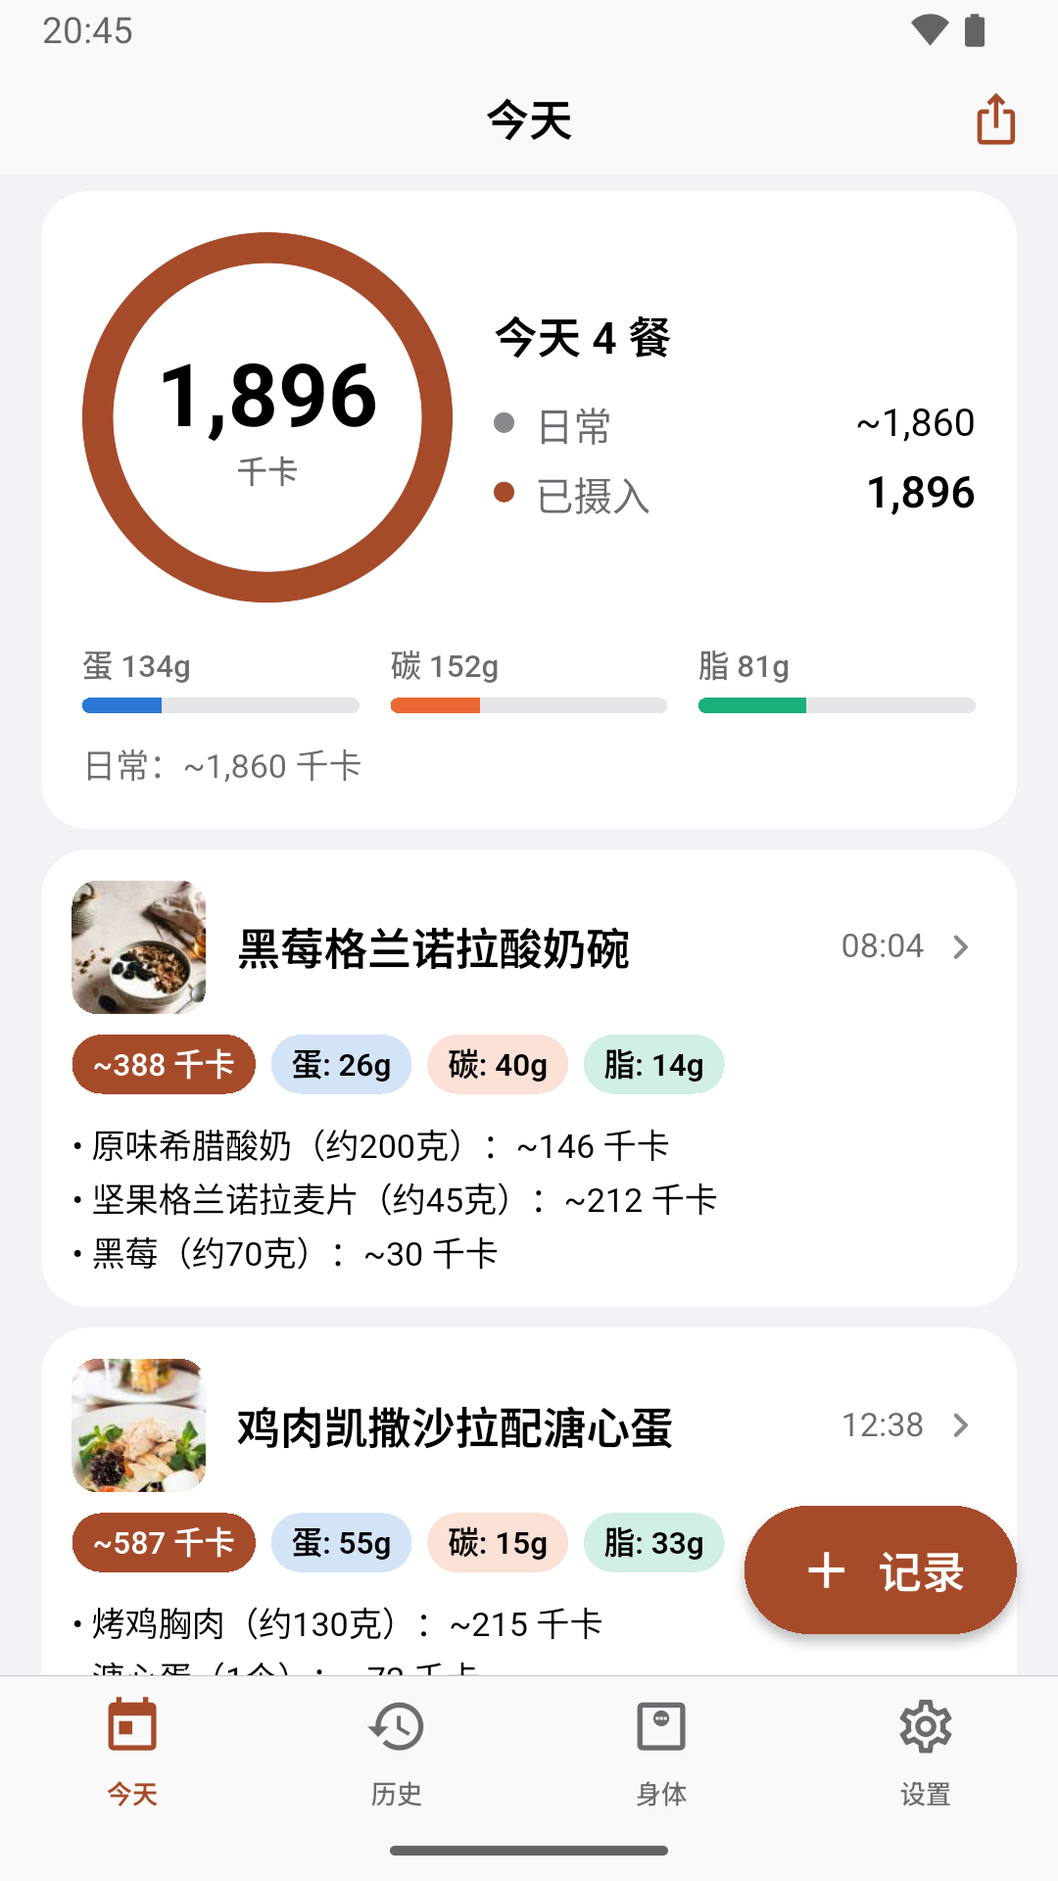
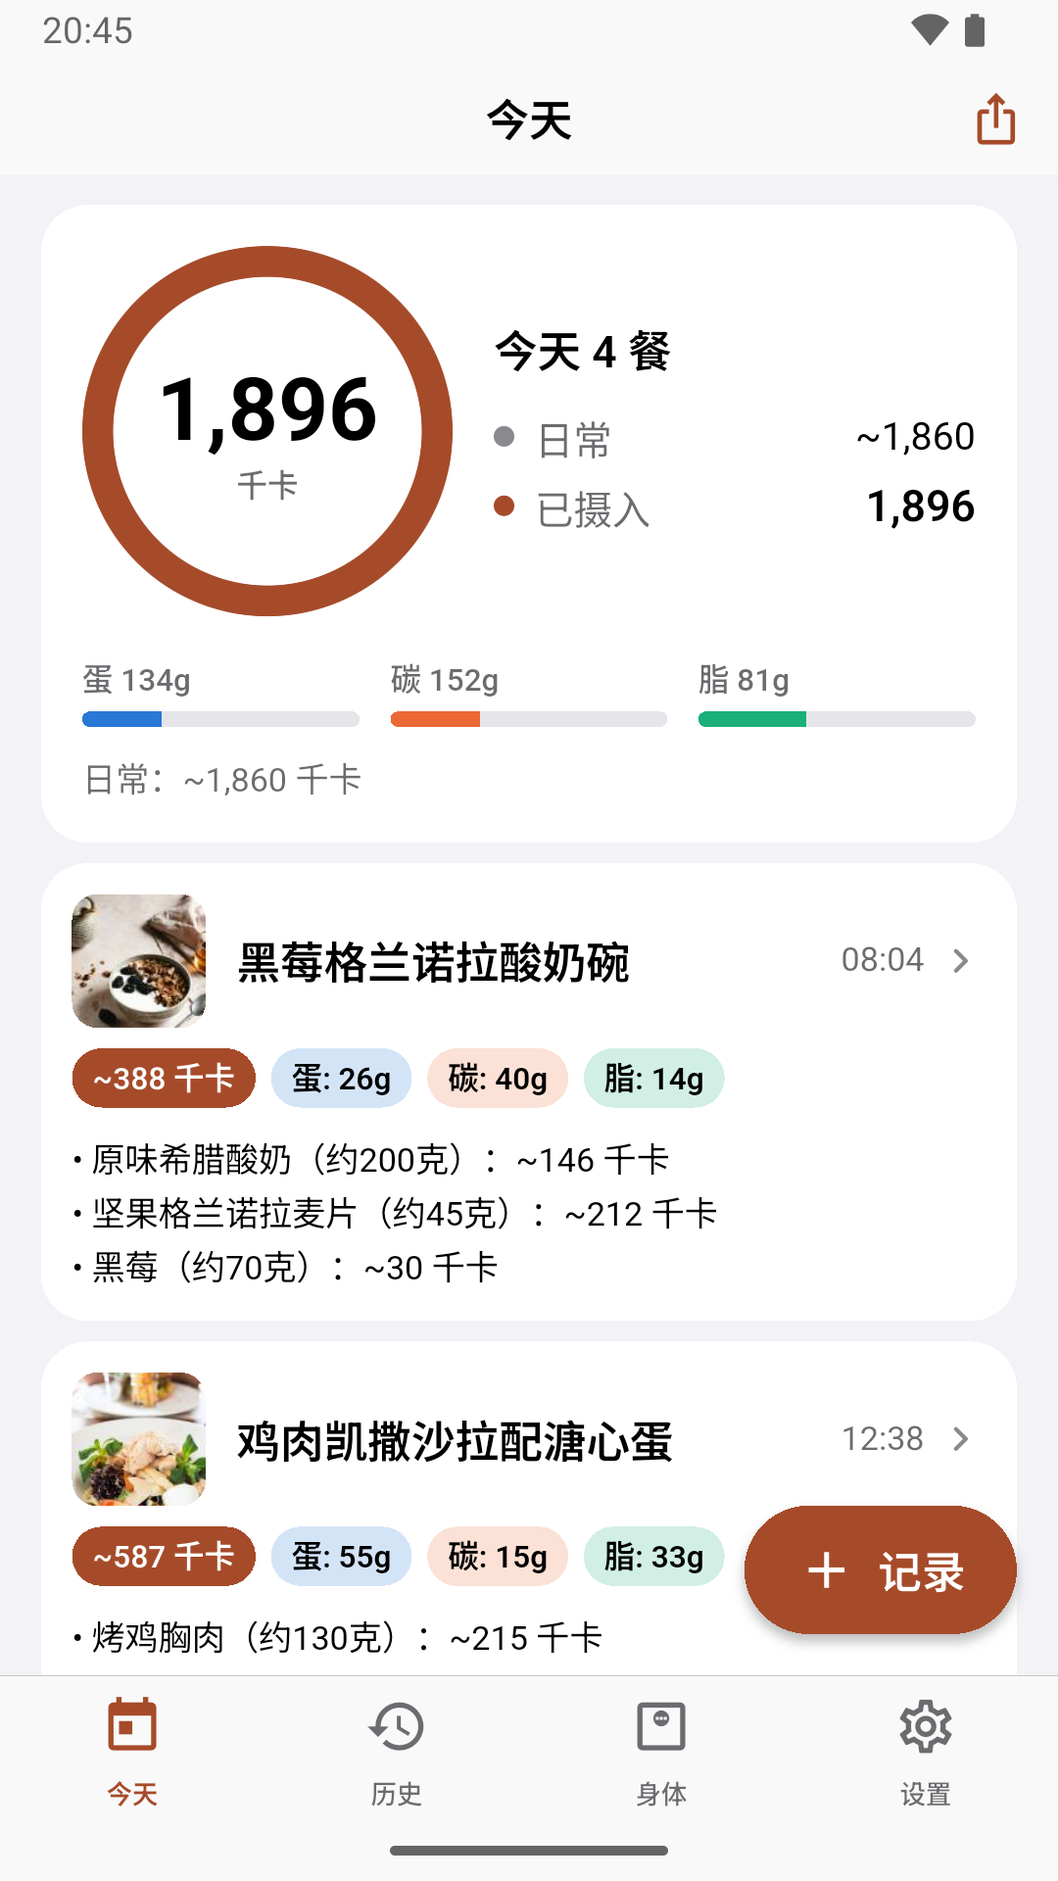
Play screenshots: no zh-CN API Key page, no cut lines, a pinned clock
Review of #76:

- zh-CN 06 is gone. In Chinese the API Key page notes on eight of its
  nine provider rows whether the provider needs a VPN or connects
  directly in China, and its footer sends mainland users to four
  providers; Play is not offered there (RELEASING § 7), and the listing
  names no VPN. Its key field was not in view either. zh-CN keeps 6
  shots (Play wants 4). The script takes 06 in en-US only and deletes a
  stale zh-CN copy; SHOTS.md and the script's closing reminder name VPN
  and mainland-China notes as never in a shot, and RELEASING § 6.5 says
  7 shots in en-US, 6 in zh-CN.
- zh-CN 01 and 07 scroll Today 182 px, not 196: the lunch card's second
  line no longer shows its top 13 px above the tab bar. 182 rather than
  the 181 px collapse distance, because the bar shows its title only
  past it (SliverAppBar: shrinkOffset > maxExtent - minExtent). en-US
  stays at 196, where 182 would cut its egg line.
- 04 History is framed as Today is (196 px): the title collapses into
  the bar and six whole days show in both languages; the fifth row was
  cut by the tab bar.
- The script sets the emulator's clock to Friday 2026-11-20 20:30 with
  automatic time off before each language's install, so every
  recapture gets the committed dates and numbers (typical day ~1,860);
  the demo history's weekend draws made them depend on the weekday.
  demo-file defaults to the same date.

release_decisions_test pins the shots: 4 to 8 per language, 1080x1920
[…]

diff --git a/app/test/release_decisions_test.dart b/app/test/release_decisions_test.dart
@@ -1072,6 +1072,31 @@ void main() {
       expect(shots, contains('24-bit PNG with no alpha'));
     });
 
+    // The shots themselves (scripts/play_screenshots.py). zh-CN has no 06:
+    // the Chinese API Key page says which providers need a VPN in mainland
+    // China, where Play is not offered, and the listing names no VPN (PR
+    // #76 review).
+    test('the screenshots: 4 to 8 per language, 1080 x 1920 24-bit PNGs, '
+        'no Chinese API Key page', () {
+      final dir = '${_appRoot().path}/android/store/screenshots';
+      for (final lang in ['en-US', 'zh-CN']) {
+        final pngs = Directory('$dir/$lang')
+            .listSync()
+            .whereType<File>()
+            .where((f) => f.path.endsWith('.png'))
+            .toList();
+        expect(pngs.length, inInclusiveRange(4, 8), reason: lang);
+        for (final png in pngs) {
+          expect(_pngHeader(png), (1080, 1920, 8, 2), reason: png.path);
+        }
+      }
+      expect(File('$dir/en-US/06_ai_provider.png').existsSync(), isTrue);
+      expect(File('$dir/zh-CN/06_ai_provider.png').existsSync(), isFalse);
+      final shots = _read('android/store/screenshots/SHOTS.md')
+          .replaceAll(RegExp(r'\s+'), ' ');
+      expect(shots, contains('VPN or mainland-China notes'));
+    });
+
     // Android 13+ themed icons need a monochrome layer (lint
     // MonochromeLauncherIcon). flutter_launcher_icons writes it from
     // pubspec.yaml, from the layers scripts/play_graphics.py --launcher

diff --git a/scripts/play_screenshots.py b/scripts/play_screenshots.py
@@ -6,7 +6,7 @@ emulator, from the release build of the Play variant:
 
     cd app && flutter build apk --release --dart-define=CHOPSTATS_CHANNEL=play && cd ..
     python3 scripts/play_screenshots.py avd       # create + boot the AVD
-    python3 scripts/play_screenshots.py shots     # en-US and zh-CN, 01-07
+    python3 scripts/play_screenshots.py shots     # en-US 01-07, zh-CN the same but 06
     python3 scripts/play_screenshots.py stop      # stop the emulator (the AVD stays)
 
     python3 scripts/play_screenshots.py demo-file en-US --out demo.json   # the import file only
@@ -22,14 +22,16 @@ boots it headless on port 5562 (adb serial emulator-5562).
 animations off, gesture navigation, light mode, default font and display
 size, system language = the shot's language (adb root, persist.sys.locale
 and a reboot; the image is userdebug), a clean status bar (SystemUI demo
-mode: 20:45, full Wi-Fi and battery, no notification icons), notifications
-denied for the app so nothing pops up over it. Then a FRESH install of the
-APK, and the demo import file pushed to the emulator's Download folder and
+mode: 20:45, full Wi-Fi and battery, no notification icons), and the
+clock set to Friday 2026-11-20, 20:30 with automatic time off (DEMO_NOW),
+so every recapture shows the same days and numbers. Then a FRESH install
+of the APK, notifications denied for it so nothing pops up over it, and
+the demo import file pushed to the emulator's Download folder and
 imported the way a user would: Settings > Import Data... > Choose File... >
 Android's file picker. Then the shots, by tapping through the app with
 uiautomator, captured with `adb exec-out screencap -p`, flattened to RGB
 and checked with `scripts/play_graphics.py --check-shots`. Shot 07
-switches the system to dark mode and back.
+switches the system to dark mode and back. zh-CN has no 06 (see SHOTS).
 
 The demo data (`demo-file`) is a full export in the app's own format
 (MealsDao.exportJson / BackupFileWriter.writeFull, kind "full"): 30 days of
@@ -39,8 +41,8 @@ photos in docs/readme/photos/ (Unsplash License, docs/readme/CREDITS.md),
 the other days as described meals, and a weight and girth trend. Every
 item's numbers are consistent with its macros (4/4/9 kcal per gram) and
 every total is the sum of its items. No key, no server address, no real
-meal. Dates are relative to the emulator's own date (`--today` for
-demo-file).
+meal. Dates are relative to the emulator's date, which `shots` sets to
+DEMO_NOW (`--today` for demo-file, by default the same date).
 
 Needs Python 3 with Pillow, and the Android SDK at $ANDROID_HOME (or
 $ANDROID_SDK_ROOT; default ~/Library/Android/sdk on macOS, ~/Android/Sdk
@@ -82,6 +84,12 @@ PACKAGE = "dev.calorietracker.calorie_tracker"
 ACTIVITY = f"{PACKAGE}/.MainActivity"
 LANGS = ("en-US", "zh-CN")
 STATUS_CLOCK = "2045"  # the demo-mode status bar clock, hhmm
+# What the emulator's clock is set to before each language's capture, so
+# every recapture shows the committed shots' dates and numbers. A Friday:
+# the demo history's weekend days take extra random draws, so the weekday
+# decides every earlier day's meals (another Friday gives the same numbers
+# on other dates).
+DEMO_NOW = dt.datetime(2026, 11, 20, 20, 30)
 
 TMP = Path(tempfile.gettempdir()) / "play-screenshots"
 
@@ -109,8 +117,6 @@ TODAY_PHOTO_MEALS = [
     ("chicken-salad.jpg", (12, 38),
      "Chicken Caesar salad with soft-boiled egg",
      "鸡肉凯撒沙拉配溏心蛋",
-     # The egg second: on shot 01 the Chinese list is cut under its second
-     # line, and a short line makes the smallest fragment.
      [("Grilled chicken breast (~130 g)", "烤鸡胸肉（约130克）", 215, 40, 0, 5),
       ("Soft-boiled egg (1 large)", "溏心蛋（1个）", 72, 6, 0, 5),
       ("Caesar salad, croutons, parmesan (~170 g)", "凯撒沙拉配面包丁和帕玛森（约170克）", 300, 9, 15, 23)],
@@ -331,7 +337,7 @@ def build_demo_export(lang: str, today: dt.date, now: dt.datetime | None = None)
     """The demo data as a full export (kind 'full'), for [today]."""
     if lang not in LANGS:
         raise SystemExit(f"language must be one of {', '.join(LANGS)}")
-    now = now or dt.datetime.combine(today, dt.time(20, 30))
+    now = now or dt.datetime.combine(today, DEMO_NOW.time())
     rng = random.Random(20261120)  # seeded: the same date makes the same file
     meals: list[dict] = []
     ledger: list[dict] = []
@@ -526,12 +532,16 @@ class Device:
         self.sh("svc power stayon true")
         self.demo_mode()
 
-    def set_locale(self, lang: str) -> None:
-        if self.sh("getprop persist.sys.locale").strip() == lang:
-            return
+    def root(self) -> None:
+        """adbd as root (the image is userdebug); a no-op when it is."""
         self.adb("root")
         time.sleep(2)
         self.adb("wait-for-device")
+
+    def set_locale(self, lang: str) -> None:
+        if self.sh("getprop persist.sys.locale").strip() == lang:
+            return
+        self.root()
         self.sh(f"setprop persist.sys.locale {lang}")
         # The system reads persist.sys.locale as it starts.
         self.adb("reboot", check=False)
@@ -540,6 +550,17 @@ class Device:
         got = self.sh("getprop persist.sys.locale").strip()
         if got != lang:
             raise SystemExit(f"system language is {got!r}, not {lang}")
+
+    def pin_clock(self, at: dt.datetime) -> None:
+        """Set the system clock to [at], local time, with automatic time
+        off so nothing sets it back. A reboot takes the host's time again,
+        so this comes after set_locale."""
+        self.root()
+        self.sh("settings put global auto_time 0")
+        self.sh(f"date {at:%m%d%H%M%Y.%S}")  # toybox: MMDDhhmmCCYY.ss
+        got = self.sh("date +%Y-%m-%dT%H:%M").strip()
+        if not got.startswith(f"{at:%Y-%m-%dT%H:}"):
+            raise SystemExit(f"the emulator's clock reads {got!r}, not {at:%Y-%m-%d %H:%M}")
 
     def demo_mode(self) -> None:
         self.sh("settings put global sysui_demo_allowed 1")
@@ -740,13 +761,24 @@ def import_demo(device: Device, lang: str, file_name: str) -> None:
     print(f"  imported {file_name}")
 
 
+# How far 01 and 07 scroll Today. The large title collapses into the bar
+# after 69 dp, 181.1 px at this size, and the bar shows its small title
+# (and its chrome colour) only once the scroll is past that (SliverAppBar:
+# shrinkOffset > maxExtent - minExtent), so at least 182 px. Then the
+# totals card sits right under the bar and the meal cards get the room.
+# The lunch card's item lines must end above the tab bar (its hairline is
+# at y=1710) or start below it. Chinese: at 196 px the second line showed
+# its top 13 px; at 182 it starts on the hairline, out of sight. English:
+# at 196 the egg line ends at y=1706; at 182 the tab bar would cut it.
+TODAY_SCROLL = {"en-US": 196, "zh-CN": 182}
+
+
 def today_framed(device: Device, lang: str) -> None:
-    """Today with the large title collapsed into the bar (it takes 181 px
-    of scroll at this size), so the totals card sits right under the bar
-    and the meal cards below it get the room."""
+    """Today with the large title collapsed into the bar and no line cut
+    by the tab bar."""
     tab(device, lang, "today")
     scroll_to_top(device)
-    device.drag(540, 1300, 1300 - 196)
+    device.drag(540, 1300, 1300 - TODAY_SCROLL[lang])
 
 
 def shot_today(device: Device, lang: str, out: Path) -> None:
@@ -777,8 +809,13 @@ def shot_log_sheet(device: Device, lang: str, out: Path) -> None:
 
 
 def shot_history(device: Device, lang: str, out: Path) -> None:
+    """History framed as Today is: 196 px of scroll collapse the large
+    title into the bar and lift the chart card to y=195, so the tab bar
+    cuts between a day's bar and the next day's text, in both languages:
+    six whole days."""
     tab(device, lang, "history")
     scroll_to_top(device)
+    device.drag(540, 1300, 1300 - 196)
     device.screencap(out)
 
 
@@ -814,13 +851,18 @@ def shot_dark_today(device: Device, lang: str, out: Path) -> None:
 
 
 SHOTS = [
-    ("01", "today", shot_today),
-    ("02", "meal_editor", shot_editor),
-    ("03", "log_sheet", shot_log_sheet),
-    ("04", "history", shot_history),
-    ("05", "body", shot_body),
-    ("06", "ai_provider", shot_provider),
-    ("07", "dark_today", shot_dark_today),
+    # (number, name, take, the languages that have it)
+    ("01", "today", shot_today, LANGS),
+    ("02", "meal_editor", shot_editor, LANGS),
+    ("03", "log_sheet", shot_log_sheet, LANGS),
+    ("04", "history", shot_history, LANGS),
+    ("05", "body", shot_body, LANGS),
+    # English only: in Chinese the API Key page notes on every provider row
+    # but one whether it needs a VPN or connects directly in China, and its
+    # footer sends mainland users to four providers (需要 VPN, 中国直连,
+    # 中国大陆请选择…). Not for a listing Play shows outside mainland China.
+    ("06", "ai_provider", shot_provider, ("en-US",)),
+    ("07", "dark_today", shot_dark_today, LANGS),
 ]
 
 
@@ -832,19 +874,22 @@ def capture(device: Device, lang: str, apk: Path, only: set[str] | None) -> Path
     print(f"{lang}:")
     out_dir = SHOTS_DIR / lang
     device.prepare(lang)
+    device.pin_clock(DEMO_NOW)  # before the install: nothing dated after "now"
     device.fresh_install(apk)
     today = device_today(device)
-    if dt.datetime.now().hour == 23 and dt.datetime.now().minute >= 30:
-        print("  warning: close to midnight; the date may change mid-run")
     name = f"chopstats-{today.isoformat()}.json"  # the app's own export name
     local = write_demo_file(lang, today, TMP / lang / name)
     device.sh("rm -f /sdcard/Download/chopstats-*.json", check=False)
     device.adb("push", str(local), f"/sdcard/Download/{name}")
     import_demo(device, lang, name)
-    for num, slug, take in SHOTS:
+    for num, slug, take, langs in SHOTS:
+        out = out_dir / f"{num}_{slug}.png"
+        if lang not in langs:
+            out.unlink(missing_ok=True)  # an old capture's copy must not be uploaded
+            continue
         if only and num not in only:
             continue
-        take(device, lang, out_dir / f"{num}_{slug}.png")
+        take(device, lang, out)
         device.demo_mode()  # a SystemUI restart (dark mode) leaves demo mode
     device.sh("rm -f /sdcard/Download/chopstats-*.json", check=False)
     return out_dir
@@ -879,7 +924,7 @@ def cmd_avd(args) -> None:
 
 
 def cmd_demo_file(args) -> None:
-    today = dt.date.fromisoformat(args.today) if args.today else dt.date.today()
+    today = dt.date.fromisoformat(args.today) if args.today else DEMO_NOW.date()
     write_demo_file(args.lang, today, Path(args.out))
 
 
@@ -924,7 +969,8 @@ def cmd_shots(args) -> None:
     if failed:
         raise SystemExit("play_graphics.py --check-shots failed")
     print("Look at every PNG before committing: no key, address, provider logo, "
-          "Watch Camera Roll, Photo Coverage or Meta glasses row in view.")
+          "Watch Camera Roll, Photo Coverage or Meta glasses row, and no VPN or "
+          "mainland-China note (需要 VPN, 中国直连, 中国大陆请选择…) in view.")
 
 
 def cmd_stop(args) -> None:
@@ -939,7 +985,8 @@ def main(argv=None) -> int:
     sub.add_parser("avd", help=f"create the {AVD} AVD if needed and boot it headless")
     p = sub.add_parser("demo-file", help="write the demo import file")
     p.add_argument("lang", choices=LANGS)
-    p.add_argument("--today", help="YYYY-MM-DD (default: this computer's date)")
+    p.add_argument("--today", help=f"YYYY-MM-DD (default: {DEMO_NOW:%Y-%m-%d}, the date "
+                   "`shots` sets the emulator to)")
     p.add_argument("--out", required=True)
     p = sub.add_parser("shots", help="capture the shots on the running emulator")
     p.add_argument("--lang", choices=(*LANGS, "all"), default="all")

diff --git a/app/android/store/screenshots/SHOTS.md b/app/android/store/screenshots/SHOTS.md
@@ -1,7 +1,7 @@
 # Google Play phone screenshots: the shot list
 
-The shots in `en-US/` and `zh-CN/` (01 to 07, in Play order) were captured
-on 2026-11-20 with
+The shots in `en-US/` (01 to 07, in Play order) and `zh-CN/` (the same
+without 06) were captured on 2026-11-20 with
 [`scripts/play_screenshots.py`](../../../../scripts/play_screenshots.py)
 from the **release build of the Play variant** (1.7.0; no Watch Camera
 Roll, no Photo Coverage; decision 1, 2026-11-13: `flutter build apk
@@ -32,7 +32,7 @@ zh-CN.
 ```bash
 cd app && flutter build apk --release --dart-define=CHOPSTATS_CHANNEL=play && cd ..
 python3 scripts/play_screenshots.py avd     # create play_shots if needed, boot it headless
-python3 scripts/play_screenshots.py shots   # en-US and zh-CN, 01-07, then --check-shots
+python3 scripts/play_screenshots.py shots   # en-US 01-07, zh-CN without 06, then --check-shots
 python3 scripts/play_screenshots.py stop    # stop the emulator; the AVD stays
 ```
 
@@ -65,8 +65,12 @@ how to do it by hand:
   shot's language (`adb root`, `adb shell setprop persist.sys.locale
   zh-CN`, `adb reboot`), the status bar clean (`adb shell settings put
   global sysui_demo_allowed 1` and the `com.android.systemui.demo`
-  broadcasts: 20:45, full Wi-Fi and battery, no notification icons), and
-  notifications denied to the app, so nothing pops up over a shot.
+  broadcasts: 20:45, full Wi-Fi and battery, no notification icons),
+  notifications denied to the app, so nothing pops up over a shot, and
+  the clock set to Friday 2026-11-20, 20:30 with automatic time off
+  (`adb shell settings put global auto_time 0`, then as root `adb shell
+  date 112020302026.00`), after the language's reboot, which takes the
+  host's time again.
 - **The app.** A fresh install of the APK, which the script first checks
   is the Play variant's release build (not debuggable, no
   `READ_MEDIA_IMAGES`). No API key is entered (the key field on 06 is
@@ -87,12 +91,16 @@ how to do it by hand:
 ## The demo data
 
 Demo data only: no real meal, no API key, no server address, no
-notification content from any account. Dates follow the emulator's own
-date. 30 days of plausible meals: today a breakfast, lunch, snack and
-dinner logged from photos (1,896 kcal), the 29 days before it described
-meals, a little more at weekends (in the committed shots the days run
-from 1,637 to 2,312 kcal, average 1,891); a weight trend from 74.6 to
-73.2 kg weighed on most mornings, and waist, chest and hip once a week.
+notification content from any account. Dates follow the emulator's date,
+which the script sets to Friday 2026-11-20, so every recapture shows the
+same days and numbers. The weekday matters: the weekend days take extra
+random draws, so another Friday gives the same numbers on other dates,
+and any other weekday other numbers (a Saturday: typical day ~1,999). 30
+days of plausible meals: today a breakfast, lunch, snack and dinner
+logged from photos (1,896 kcal), the 29 days before it described meals,
+a little more at weekends (the days run from 1,637 to 2,312 kcal,
+average 1,891); a weight trend from 74.6 to 73.2 kg weighed on most
+mornings, and waist, chest and hip once a week.
 Every food item's calories agree with its protein, carbs and fat (4/4/9
 kcal per gram) and every total is the sum of its items. The Chinese file
 has the same meals with the names the Chinese reply language makes the
@@ -114,21 +122,32 @@ kind of thumbnail (160 px, JPEG quality 70) made from:
 
 `dumplings.jpg` is not used.
 
-## The shots (same order in both languages)
+## The shots (the same in both languages, but zh-CN has no 06)
 
 | # | File | Screen | Shows |
 |---|---|---|---|
 | 1 | `01_today.png` | Today, its large title collapsed | The day's calories and macros (1,896 kcal, 4 meals, typical day ~1,860) and the first two meal cards with their photos |
 | 2 | `02_meal_editor.png` | Today's dinner, a photo meal, open in the editor | The totals, then the food items with the portion the AI assumed and their editable numbers |
 | 3 | `03_log_sheet.png` | The Log sheet over Today | From recent photos, My usual foods, Leftovers, Describe a meal, Enter manually, Fix or delete a meal |
-| 4 | `04_history.png` | History | The 30-day chart with its average, and the daily totals |
+| 4 | `04_history.png` | History, its large title collapsed | The 30-day chart with its average, and six days' totals |
 | 5 | `05_body.png` | Body | The weight trend and the measurements |
-| 6 | `06_ai_provider.png` | Settings › AI Provider › API Key | The provider list and the top of the empty key field (scrolled further, the field's footer names the provider's key page) |
+| 6 | `06_ai_provider.png` | Settings › AI Provider › API Key, **en-US only** | The provider list and the top of the empty key field (scrolled further, the field's footer names the provider's key page) |
 | 7 | `07_dark_today.png` | Today in dark mode | As shot 1 |
+
+zh-CN has no 06: in Chinese the API Key page notes on eight of its nine
+provider rows whether the provider needs a VPN or connects directly in
+China (需要 VPN, 免费额度 · VPN, 中国直连, 免费 · 中国直连), and its
+footer sends mainland users to DeepSeek, Qwen, Doubao or GLM. Play is not
+offered in mainland China (`docs/RELEASING.md` § 7), so the people who
+see the zh-CN listing need no VPN, and the listing's own text may not
+mention VPNs either (`test/release_decisions_test.dart`). Six shots are
+still more than the four Play wants.
 
 Never in a shot: Watch Camera Roll, Photo Coverage, Meta glasses rows,
 anything that names the GitHub APK, a real key or address, a provider's
-logo, or accuracy or user-count claims.
+logo, VPN or mainland-China notes (需要 VPN, 中国直连, 中国大陆请选择…),
+or accuracy or user-count claims. Nothing cut in half by the tab bar
+either: a line shows whole or not at all.
 
 After capture, the owner uploads them under **Grow users › Store presence
 › Main store listing** (and the zh-CN translation) with the graphics from

diff --git a/docs/RELEASING.md b/docs/RELEASING.md
@@ -1562,9 +1562,12 @@ read 2026-11-13):
   `feature-graphic-zh-CN.png` (1,024 × 500, 24-bit PNG, no alpha). It
   checks both itself (`--verify`), and so does the test.
 - **Screenshots:** `app/android/store/screenshots/en-US/` and `zh-CN/`,
-  7 portrait shots per language (9:16, 1,080 × 1,920, 24-bit PNG, no
-  alpha) from the Play build's release APK on an emulator, with demo data
-  only, as `app/android/store/screenshots/SHOTS.md` lists.
+  portrait shots (9:16, 1,080 × 1,920, 24-bit PNG, no alpha) from the
+  Play build's release APK on an emulator, with demo data only, as
+  `app/android/store/screenshots/SHOTS.md` lists: 7 in en-US and 6 in
+  zh-CN, which has no 06 (in Chinese the API Key page says which
+  providers need a VPN in mainland China, where Play is not offered;
+  § 7).
   `scripts/play_screenshots.py` takes them again (AVD, demo import file,
   capture, check); redo them on a release candidate whose screens
   changed. The iPhone sets are about 2.17:1, and Play refuses anything
